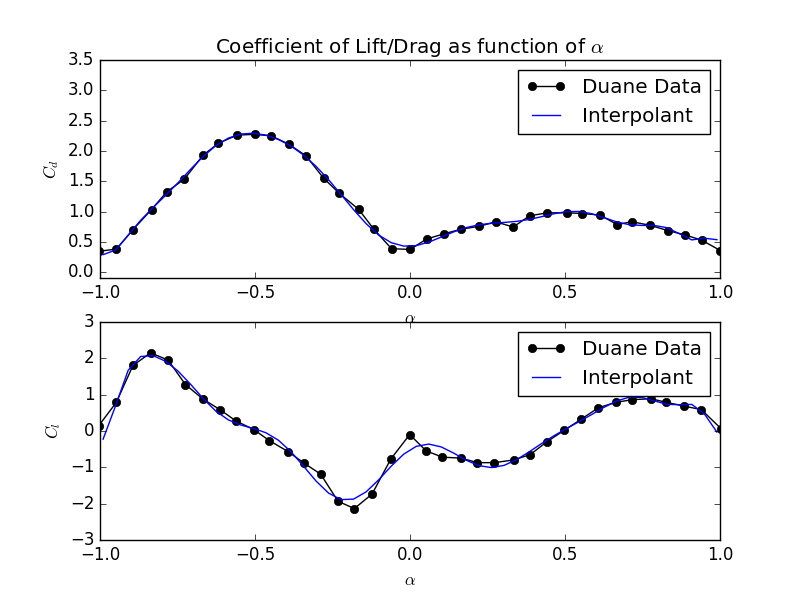
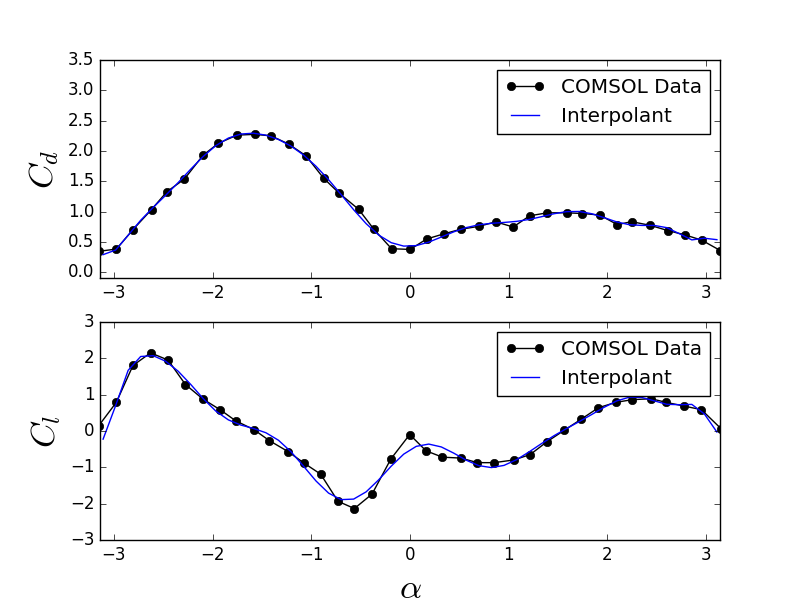
updating images to be in radians

diff --git a/disputatio/routines/drag_polars/master.py b/disputatio/routines/drag_polars/master.py
@@ -97,23 +97,24 @@ def drag_polar(name):
     #
     sz=25
     plt.subplot(2, 1, 1)
-    plt.plot(anglecd, cd, 'ko-',label='COMSOL Data')
-    plt.plot(anglei, P.polyval(anglei,inter_cd), color='blue',label='Interpolant')
+    plt.plot(anglecd*np.pi, cd, 'ko-',label='COMSOL Data')
+    plt.plot(np.pi*anglei, P.polyval(anglei,inter_cd), color='blue',label='Interpolant')
     #plt.title(r'Coefficients of Drag/Lift as functions of $\alpha$')
     #plt.subtitle(r'Coefficients of Drag/Lift as functions of $\alpha$')
     #plt.xlabel(r'$\alpha$')
     plt.ylabel(r'$C_d$',size=sz)
     plt.legend()
-    plt.xlim([-1,1])
+    #plt.xlim([-1,1])
+    plt.xlim([-np.pi,np.pi])
     plt.ylim([-0.1,3.5])
     
     plt.subplot(2, 1, 2)
-    plt.plot(anglecl, cl, 'ko-',label='COMSOL Data')
-    plt.plot(anglei, P.polyval(anglei,inter_cl), color='blue',label='Interpolant')
+    plt.plot(anglecl*np.pi, cl, 'ko-',label='COMSOL Data')
+    plt.plot(anglei*np.pi, P.polyval(anglei,inter_cl), color='blue',label='Interpolant')
     plt.ylabel(r'$C_l$',size=sz)
     plt.xlabel(r'$\alpha$',size=sz)
     plt.legend()
-    plt.xlim([-1,1])
+    plt.xlim([-np.pi,np.pi])
     plt.ylim([-3,3])
     plt.savefig(name+".png")
     plt.close()

diff --git a/disputatio/routines/drag_polars/90.py b/disputatio/routines/drag_polars/90.py
@@ -98,21 +98,24 @@ poly_print(inter_cd,'drag')
 #
 # plot!
 #
+sz=25
 plt.subplot(2, 1, 1)
-plt.plot(anglecd, cd, 'ko-',label='Duane Data')
+plt.plot(anglecd, cd, 'ko-',label='COMSOL Data')
 plt.plot(anglei, P.polyval(anglei,inter_cd), color='blue',label='Interpolant')
-plt.title(r'Coefficient of Lift/Drag as function of $\alpha$')
-plt.xlabel(r'$\alpha$')
-plt.ylabel(r'$C_d$')
+#plt.title(r'Coefficients of Drag/Lift as functions of $\alpha$')
+#plt.subtitle(r'Coefficients of Drag/Lift as functions of $\alpha$')
+#plt.xlabel(r'$\alpha$')
+plt.ylabel(r'$C_d$',size=sz)
 plt.legend()
 plt.xlim([-1,1])
+#plt.xlim([-np.pi,np.pi])
 plt.ylim([-0.1,3.5])
 
 plt.subplot(2, 1, 2)
-plt.plot(anglecl, cl, 'ko-',label='Duane Data')
+plt.plot(anglecl, cl, 'ko-',label='COMSOL Data')
 plt.plot(anglei, P.polyval(anglei,inter_cl), color='blue',label='Interpolant')
-plt.ylabel(r'$C_l$')
-plt.xlabel(r'$\alpha$')
+plt.ylabel(r'$C_l$',size=sz)
+plt.xlabel(r'$\alpha$',size=sz)
 plt.legend()
 plt.xlim([-1,1])
 plt.ylim([-3,3])
